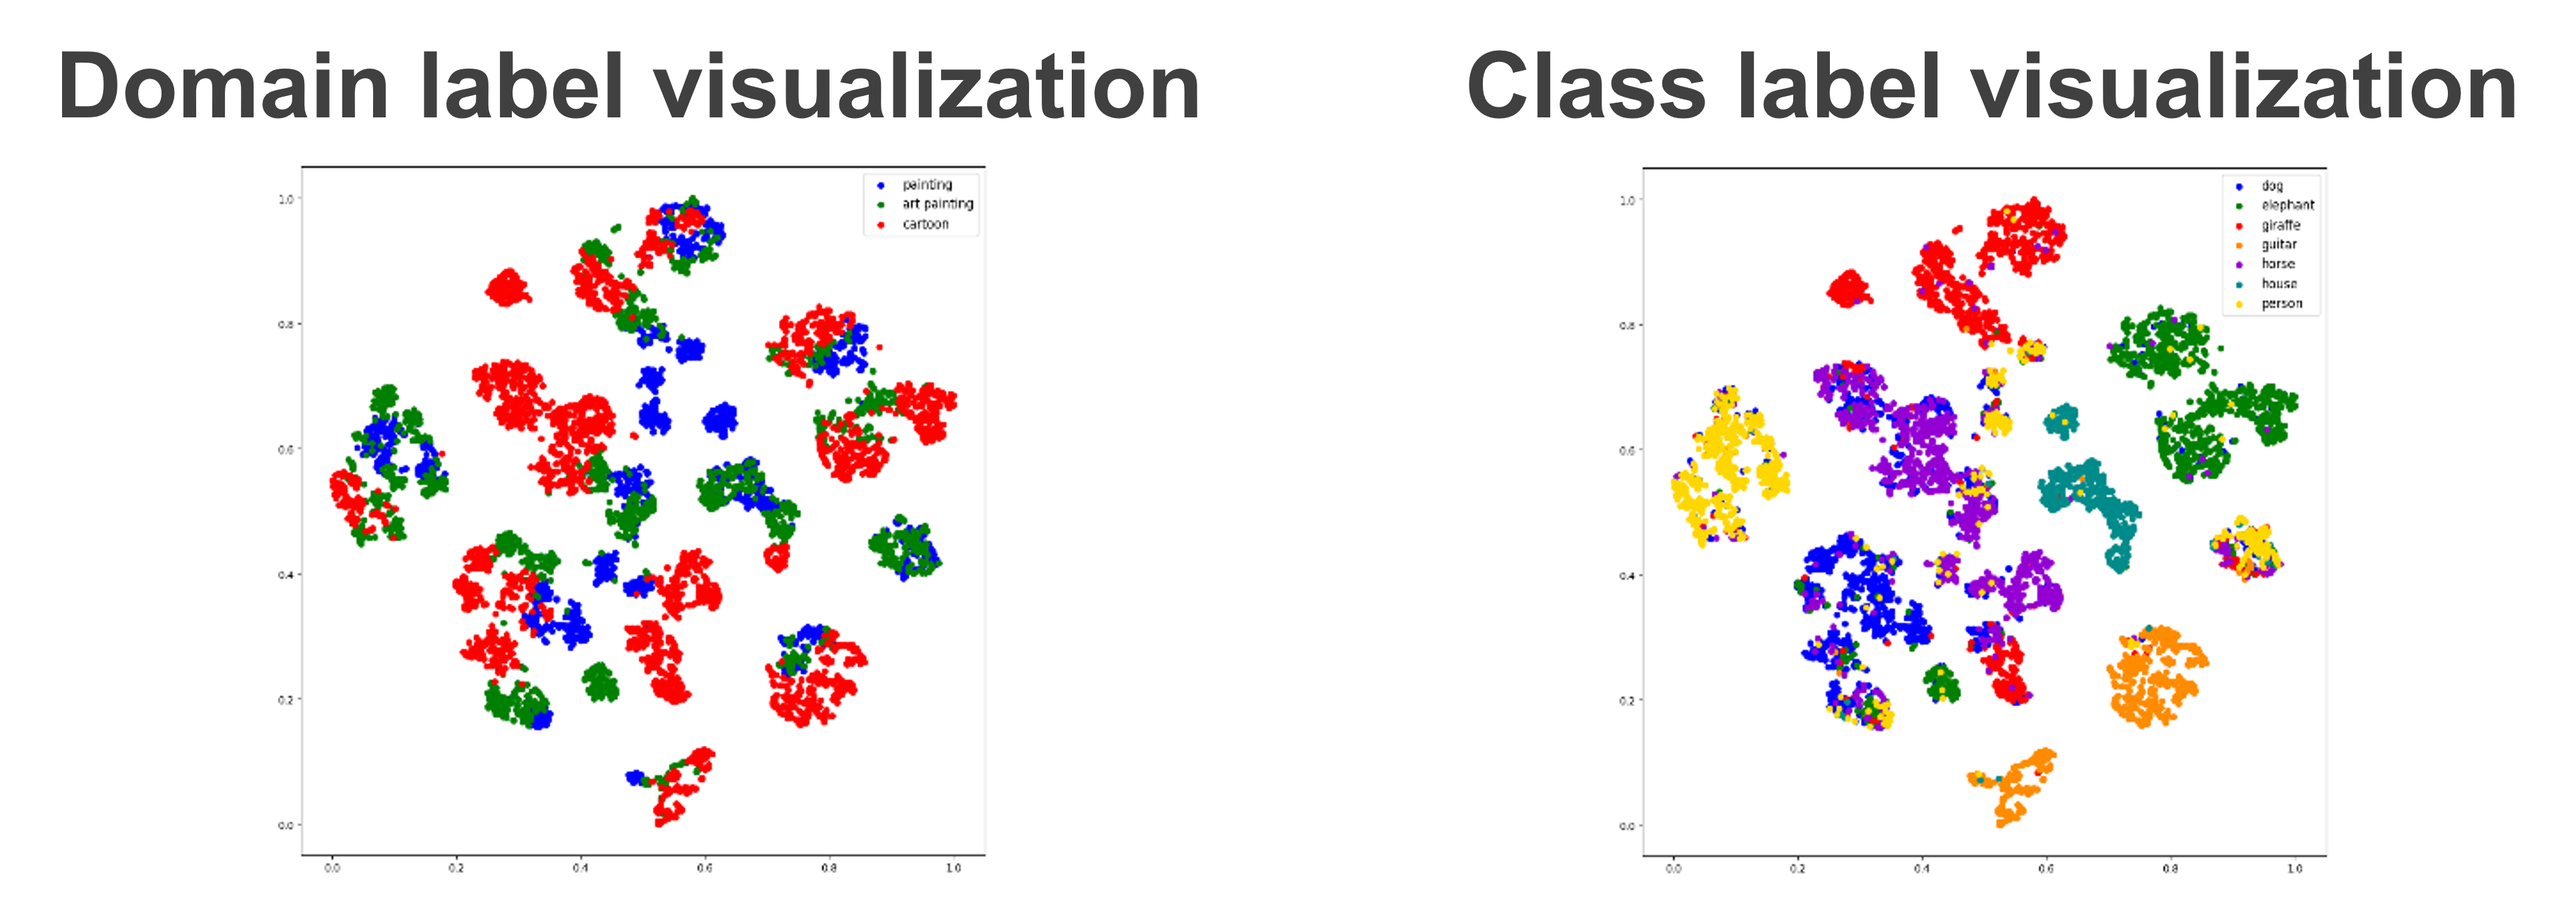
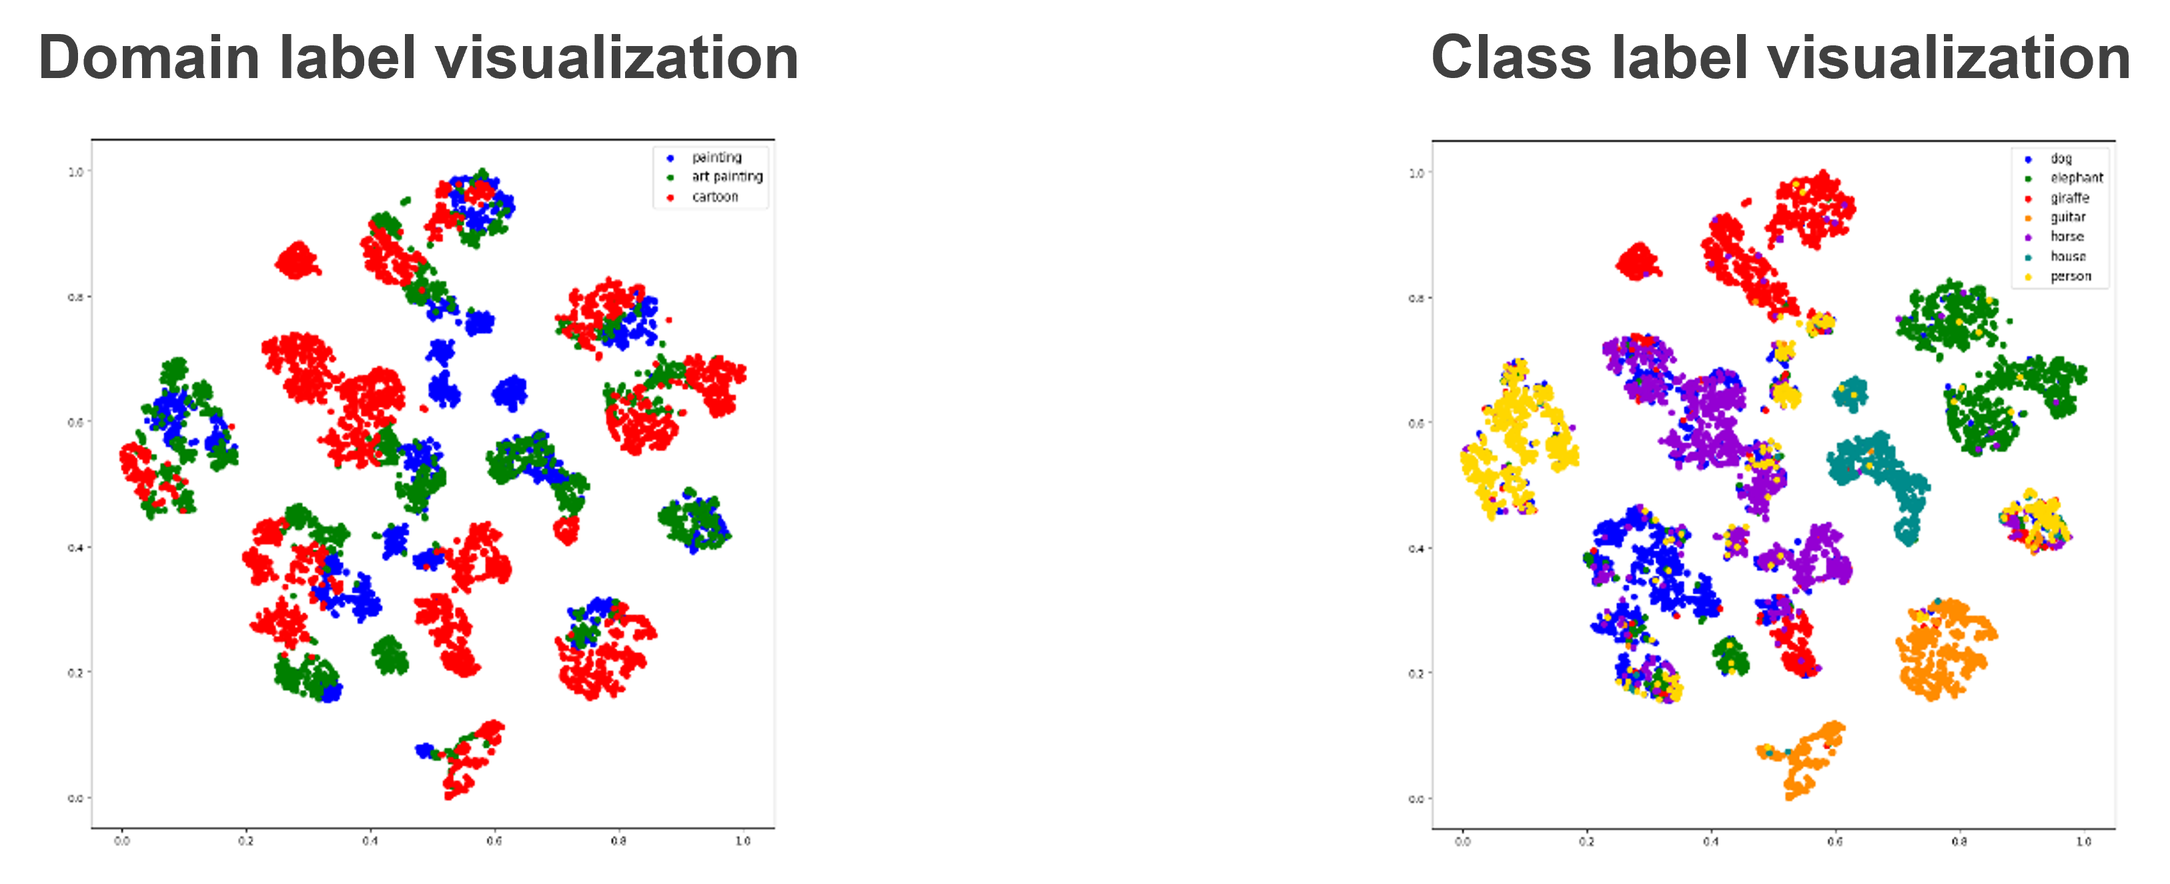
Update

diff --git a/domclp/index.html b/domclp/index.html
@@ -252,7 +252,7 @@
 
               <h3>Multi-Domain 3D Toy example</h3>
               <div class="w3-display-container w3-row w3-white w3-margin-bottom w3-center">
-                <embed src="images/figure4_4.png" style="width:50%">
+                <embed src="images/figure4_4.png" style="width:70%">
               </div>
 
 
